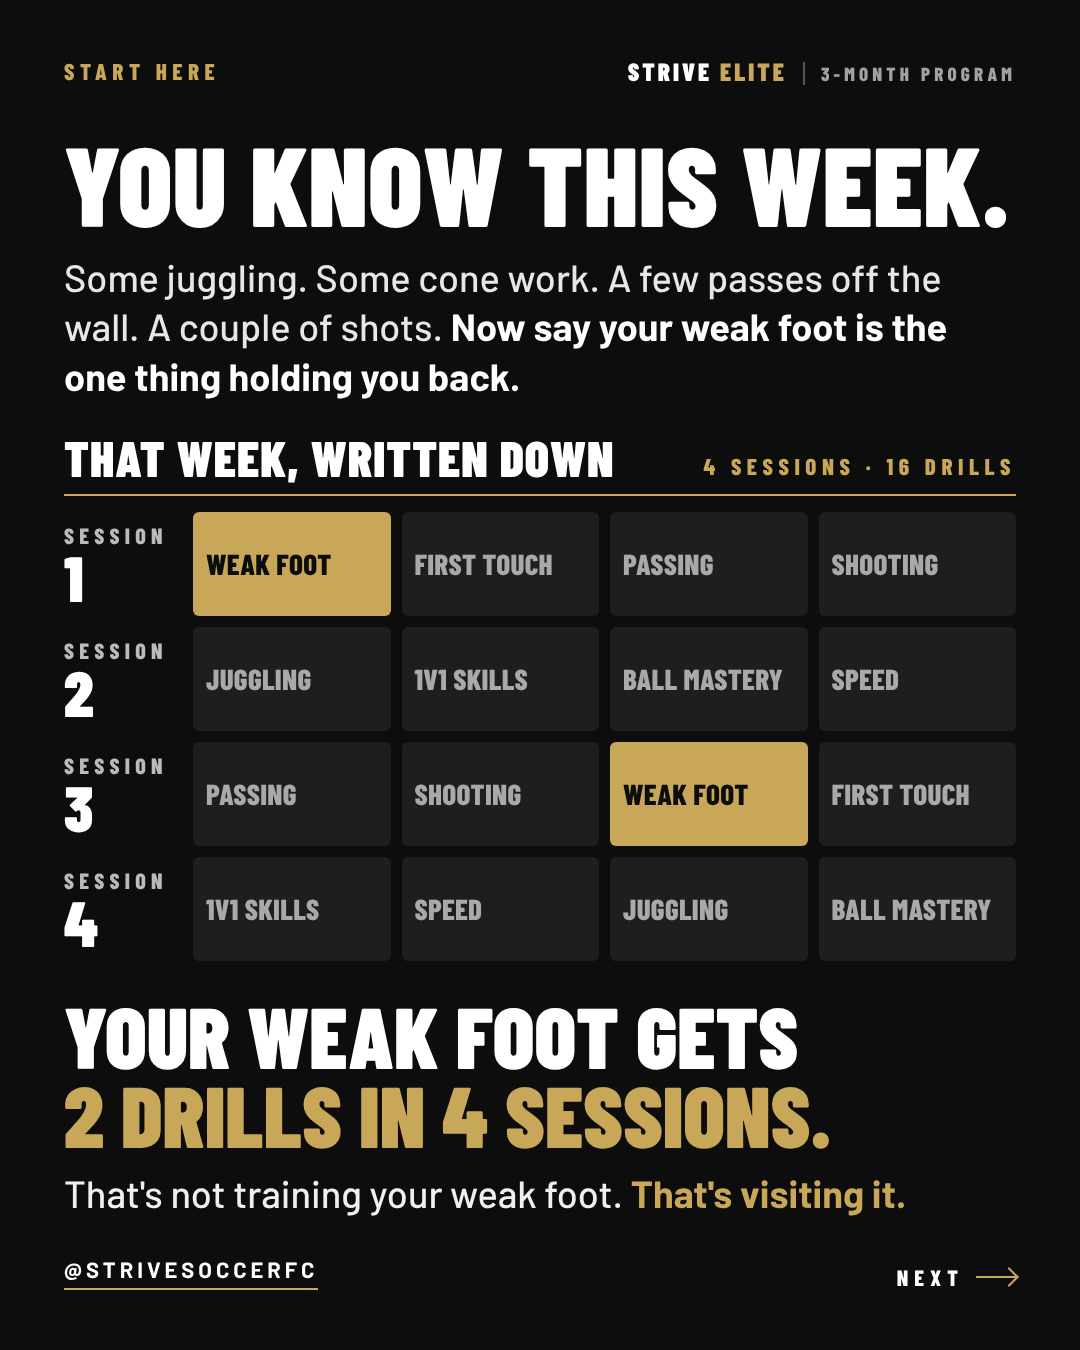
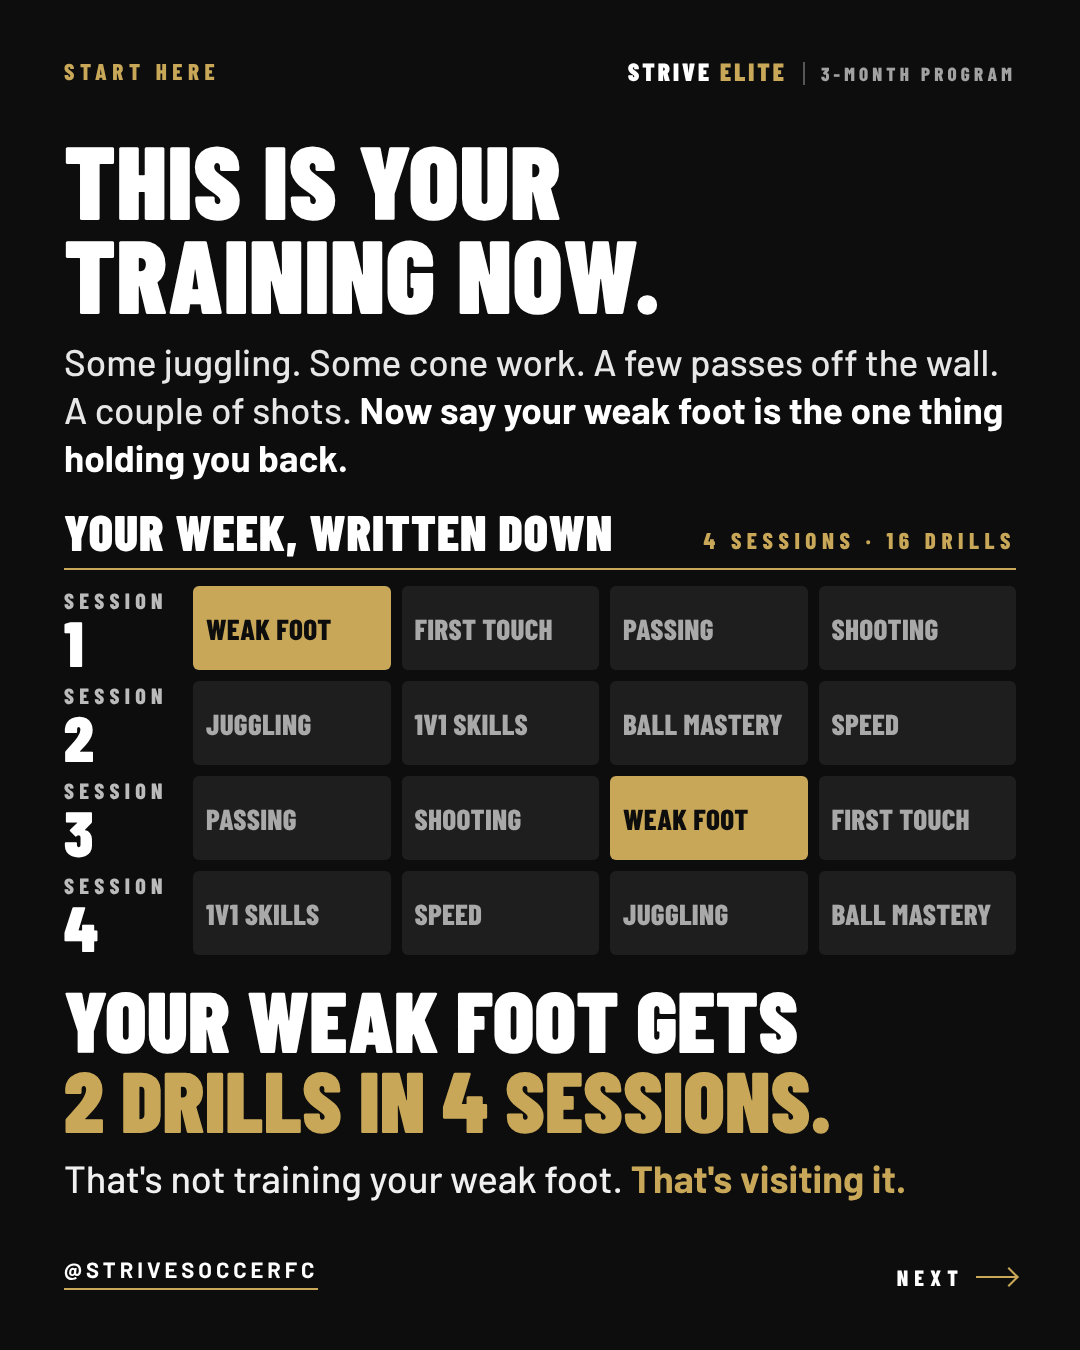
Compact carousel: slide 2 headline is 'This is your training now'
Claude-Session: https://claude.ai/code/session_011JsCTTjCbUkHbTuWTKQSXJ

diff --git a/marketing/program/one-thing-carousel-4/02-your-week.html b/marketing/program/one-thing-carousel-4/02-your-week.html
@@ -1,12 +1,12 @@
 <!doctype html><meta charset="utf-8"><link rel="stylesheet" href="../../covers/strive-elite-meeting/fonts.css"><link rel="stylesheet" href="style.css"><title>You know this week</title>
-<style>h1{font-size:112px;white-space:nowrap}.l{margin-top:20px;font-size:38px;line-height:1.3;font-weight:500;color:rgba(255,255,255,.9)}.l b{font-weight:700;color:#fff}
-.sched{margin-top:34px}.tt{gap:11px}.tr{grid-template-columns:118px repeat(4,1fr);gap:11px}.bk{height:104px;font-size:29px;letter-spacing:.01em;padding:0 13px}
-.k{margin-top:34px;font-family:'Barlow Condensed';font-weight:900;font-size:86px;line-height:.92;text-transform:uppercase;color:#fff}.k span{color:#c8a858;white-space:nowrap}
+<style>h1{font-size:104px;white-space:nowrap}.l{margin-top:18px;font-size:37px;line-height:1.3;font-weight:500;color:rgba(255,255,255,.9)}.l b{font-weight:700;color:#fff}
+.sched{margin-top:28px}.tt{gap:11px}.tr{grid-template-columns:118px repeat(4,1fr);gap:11px}.bk{height:84px;font-size:29px;letter-spacing:.01em;padding:0 13px}
+.k{margin-top:24px;font-family:'Barlow Condensed';font-weight:900;font-size:86px;line-height:.92;text-transform:uppercase;color:#fff}.k span{color:#c8a858;white-space:nowrap}
 .p{margin-top:16px;font-size:38px}</style>
 <div class="top"><div class="step">Start here</div><div class="wm">Strive <span>Elite</span><em>3-month program</em></div></div>
-<div class="pad"><h1>You know this week.</h1>
+<div class="pad"><h1>This is your<br>training now.</h1>
 <p class="l">Some juggling. Some cone work. A few passes off the wall. A couple of shots. <b>Now say your weak foot is the one thing holding you back.</b></p>
-<div class="sched"><div class="hd"><b>That week, written down</b><span>4 sessions &middot; 16 drills</span></div><div class="tt">
+<div class="sched"><div class="hd"><b>Your week, written down</b><span>4 sessions &middot; 16 drills</span></div><div class="tt">
 <div class="tr"><div class="lb">Session<b>1</b></div><div class="bk g">Weak foot</div><div class="bk">First touch</div><div class="bk">Passing</div><div class="bk">Shooting</div></div>
 <div class="tr"><div class="lb">Session<b>2</b></div><div class="bk">Juggling</div><div class="bk">1v1 skills</div><div class="bk">Ball mastery</div><div class="bk">Speed</div></div>
 <div class="tr"><div class="lb">Session<b>3</b></div><div class="bk">Passing</div><div class="bk">Shooting</div><div class="bk g">Weak foot</div><div class="bk">First touch</div></div>

diff --git a/CLAUDE.md b/CLAUDE.md
@@ -4053,6 +4053,7 @@ commit.
       THEN Nov 12 2026 (Coach Yinka: "Do weak foot ronaldighnondrill for yhe 4th drill on Progressive overload slide"): the fourth card on compact cut slide 4 is "Weak foot Ronaldinho drill", 4 x 60 sec on, 30 sec off (his name for it; the reps are the bank's), with a frame of its own clip; "Wall pass, touch behind the leg" is off the slide. The clip is on files.manuscdn.com, so a second session on the "strive-soccer-system" environment pulled six stills (branch claude/ronaldinho-thumb, now in marketing/program/drill-frames/ball-mastery/). FLAGS, his call, nothing changed in the bank: the bank row is titled "Ronaldinho drill", sits under Ball Mastery (program focus is not weak foot) and is SWITCHED OFF, so the app would not give it to a player in a weak foot fortnight today; switching it on, renaming it and tagging it weak foot is three taps at /coach/drills. Sent, not posted.
       THEN Nov 12 2026 (Coach Yinka: "Why 60 second instead of 1 min and the juggling doesn't need rest just say 5 mins"): the "60 sec on, 30 sec off" was the bank's stored wording for the Ronaldinho drill, copied as stored. On compact cut slide 4 the Ronaldinho card now reads "4 x 1 min, rest 30 sec" (same shape as the other cards) and "Weak foot pop and juggle" reads "5 mins" with no rest. THE BANK IS UNCHANGED, so the app still shows "4 x 60 sec on, 30 sec off" and "3 x 1 min, rest 30 sec" on those two drills; matching the app to the slide is an edit of each drill's reps at /coach/drills, on his word. Sent, not posted.
       THEN Nov 12 2026 (Coach Yinka: "And can you zoom in on the Ronaldinho drill a bit?"): the Ronaldinho drill picture on compact cut slide 4 is cropped tighter, from the chest down, so his feet, the ball and the cones fill the frame (same still, frame 4). Sent, not posted.
+      THEN Nov 12 2026 (Coach Yinka, with a screenshot of slide 2 in the Instagram picker: "Instead of you know this week say this is your training now"): compact cut slide 2's headline is "THIS IS YOUR TRAINING NOW." (two lines), and the grid's header follows it, "YOUR WEEK, WRITTEN DOWN" (was "That week, written down"). The rest of the slide is unchanged; rows tightened to fit. Sent, not posted.
 
 ## Skills (use them without being asked)
 

diff --git a/marketing/program/one-thing-carousel-4/README.md b/marketing/program/one-thing-carousel-4/README.md
@@ -11,9 +11,9 @@ Same look, same approved lines, merged. Render: `node render.mjs 02-your-week.ht
 1. `01-cover`. YOU'RE TRAINING EVERYTHING. THAT'S THE PROBLEM. / A bit of
    everything keeps you the same player. This is the 3-month program that
    fixes it.
-2. `02-your-week`. YOU KNOW THIS WEEK. / Some juggling. Some cone work. A few
+2. `02-your-week`. THIS IS YOUR TRAINING NOW. / Some juggling. Some cone work. A few
    passes off the wall. A couple of shots. Now say your weak foot is the one
-   thing holding you back. / THAT WEEK, WRITTEN DOWN, 4 sessions, 16 drills /
+   thing holding you back. / YOUR WEEK, WRITTEN DOWN, 4 sessions, 16 drills /
    YOUR WEAK FOOT GETS 2 DRILLS IN 4 SESSIONS. / That's not training your weak
    foot. That's visiting it.
 3. `03-eight`. SAME 4 SESSIONS. NOW YOUR WEAK FOOT GETS 8 DRILLS. / THE SAME
